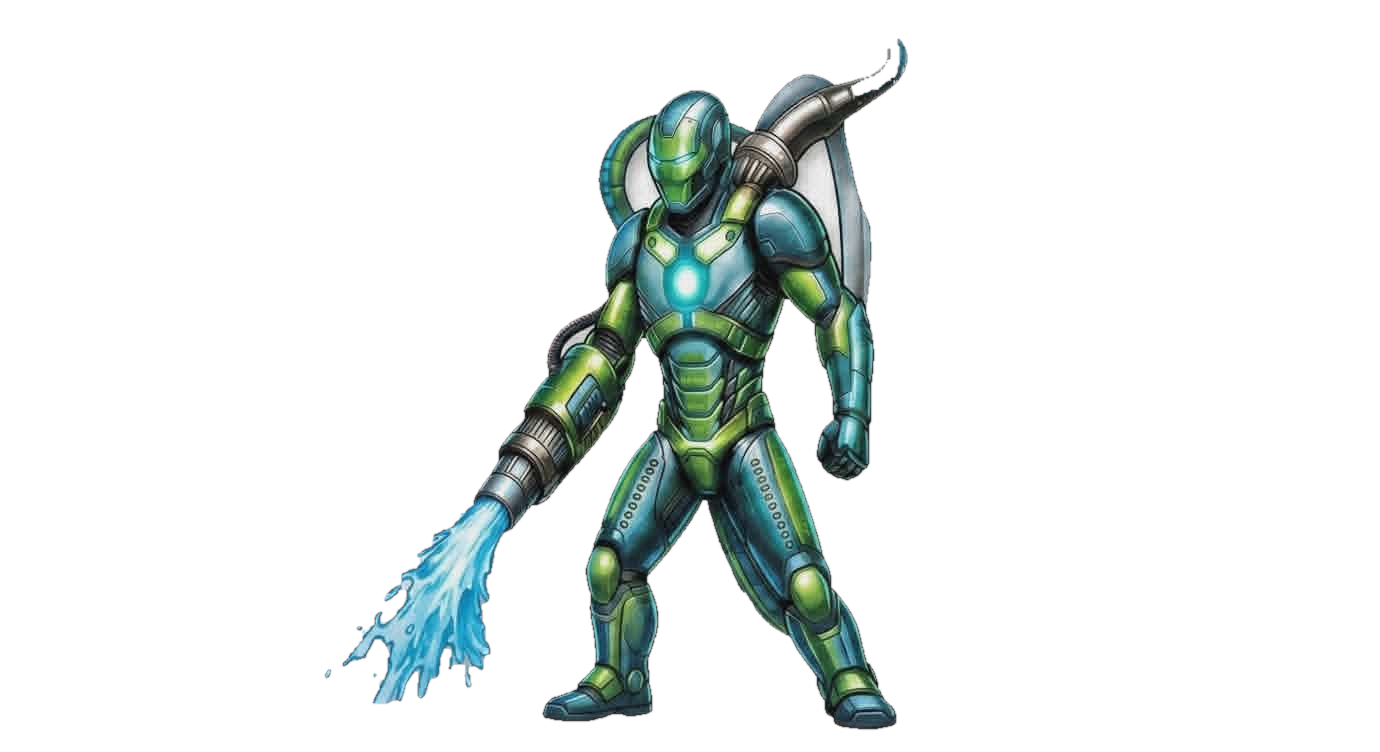
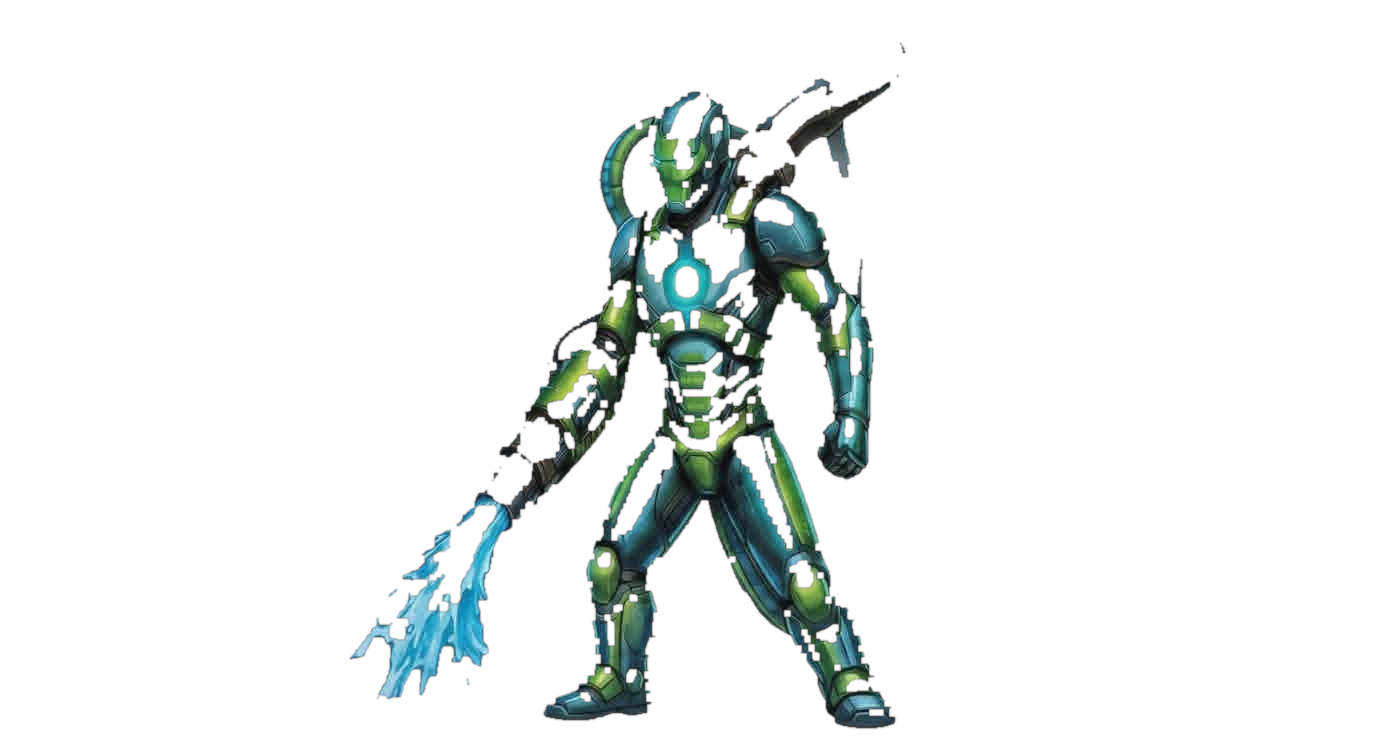
Rooter 1 knockout v3: pockets cleared + defringe

diff --git a/tools/rooter1_knockout_v3.py b/tools/rooter1_knockout_v3.py
@@ -1,0 +1,52 @@
+#!/usr/bin/env python3
+"""Rooter 1 knockout v3: flood-fill bg + clear pockets + 3px defringe + black-lean edge."""
+from PIL import Image, ImageFilter
+import numpy as np
+import subprocess
+
+try:
+    from scipy import ndimage
+except ImportError:
+    subprocess.run(['pip', 'install', '--quiet', 'scipy'], check=False)
+    from scipy import ndimage
+
+src = Image.open('images/Rooter 1.jfif').convert('RGB')
+a = np.array(src).astype(int)
+mn, mx = a.min(axis=2), a.max(axis=2)
+sat = mx - mn
+bgish = (sat < 55) & (mn > 130)
+
+# 1) flood-fill background from borders
+lab, n = ndimage.label(bgish)
+border = set(lab[0, :]) | set(lab[-1, :]) | set(lab[:, 0]) | set(lab[:, -1])
+border.discard(0)
+bg = np.isin(lab, list(border))
+# 2) enclosed pockets = non-border labeled bgish regions not connected to border
+for i in range(1, n + 1):
+    if i not in border:
+        size = int((lab == i).sum())
+        if size < 60000:  # pocket
+            bg |= (lab == i)
+
+subject = (~bg).astype(np.uint8) * 255
+# 3) defringe: erode subject by 3px
+sim = Image.fromarray(subject)
+for _ in range(3):
+    sim = sim.filter(ImageFilter.MinFilter(3))
+alpha = np.array(sim).astype(np.float64) / 255.0
+# feather 1px
+alpha = np.array(Image.fromarray((alpha * 255).astype(np.uint8)).filter(ImageFilter.GaussianBlur(0.9))).astype(np.float64) / 255.0
+
+rgb = a.astype(np.float64)
+rem = 1.0 - alpha
+white = 245.0
+for c in range(3):
+    rgb[:, :, c] = (rgb[:, :, c] - rem * white) / np.maximum(alpha, 1e-3)
+    rgb[:, :, c] = np.clip(rgb[:, :, c], 0, 255)
+# darken the semi-transparent band toward black (comic outlines are black; bg is dark)
+for c in range(3):
+    rgb[:, :, c] = rgb[:, :, c] * (0.35 + 0.65 * alpha)
+
+out = Image.fromarray(np.dstack([rgb.astype(np.uint8), (alpha * 255).astype(np.uint8)]), 'RGBA')
+out.save('images/rooter-1-transparent.png')
+print('saved, bbox', out.getchannel('A').getbbox())
